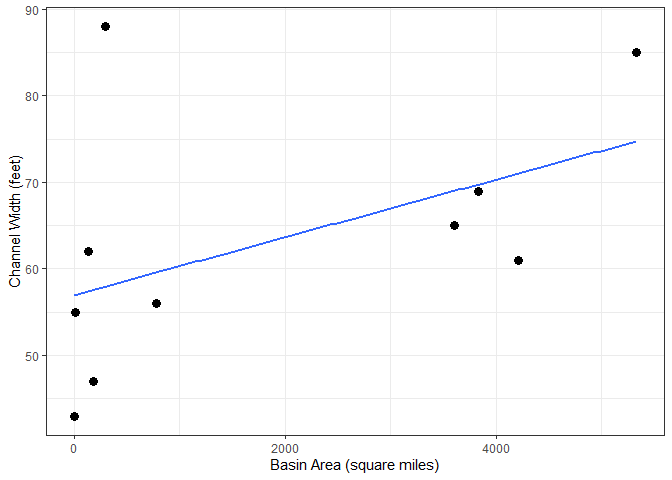
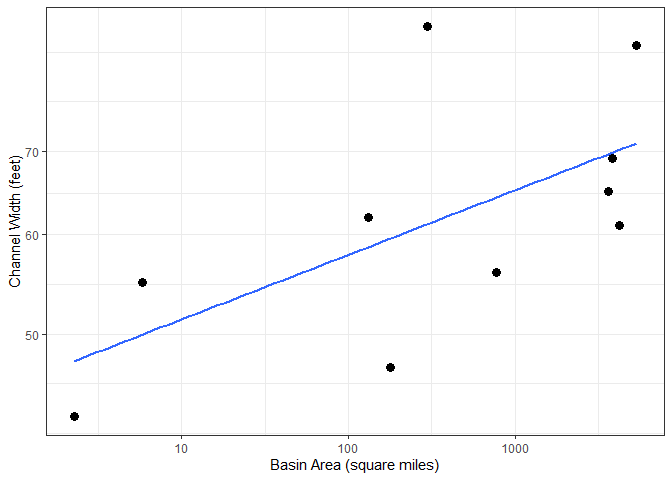
log10

diff --git a/Hydraulic-Geom.md b/Hydraulic-Geom.md
@@ -24,6 +24,8 @@ stream_stats<-read.csv("D://GEOG_4300/1111111.csv")
 ``` r
 ggplot(stream_stats, aes(x=Basin.area, y=Channel.Width))+
   geom_point(size=3)+
+  scale_y_log10()+
+  scale_x_log10()+
   theme_bw()+
   labs(x="Basin Area (square miles)", y="Channel Width (feet)")+
   geom_smooth(method = lm, se = FALSE, )
@@ -35,18 +37,18 @@ ggplot(stream_stats, aes(x=Basin.area, y=Channel.Width))+
 kable(stream_stats)
 ```
 
-| Coordinates         | Channel.Width | Basin.area | Channel.Width.1 |
-| :------------------ | ------------: | ---------: | --------------: |
-| 34.17638, -83.53276 |            43 |       2.28 |              43 |
-| 34.15599, -83.52073 |            55 |       5.78 |              55 |
-| 34.11774, -83.47988 |            62 |     131.00 |              62 |
-| 34.07323, -83.46202 |            47 |     178.00 |              47 |
-| 33.92559, -83.36555 |            88 |     296.00 |              88 |
-| 33.87394, -83.33857 |            56 |     774.00 |              56 |
-| 32.83743, -82.97276 |            65 |    3600.00 |              65 |
-| 32.81002, -82.96238 |            69 |    3830.00 |              69 |
-| 32.65480, -82.93429 |            61 |    4210.00 |              61 |
-| 31.96116, -82.54200 |            85 |    5330.00 |              85 |
+| Coordinates         | Channel.Width | Basin.area |
+| :------------------ | ------------: | ---------: |
+| 34.17638, -83.53276 |            43 |       2.28 |
+| 34.15599, -83.52073 |            55 |       5.78 |
+| 34.11774, -83.47988 |            62 |     131.00 |
+| 34.07323, -83.46202 |            47 |     178.00 |
+| 33.92559, -83.36555 |            88 |     296.00 |
+| 33.87394, -83.33857 |            56 |     774.00 |
+| 32.83743, -82.97276 |            65 |    3600.00 |
+| 32.81002, -82.96238 |            69 |    3830.00 |
+| 32.65480, -82.93429 |            61 |    4210.00 |
+| 31.96116, -82.54200 |            85 |    5330.00 |
 
 ## Including Plots
 
